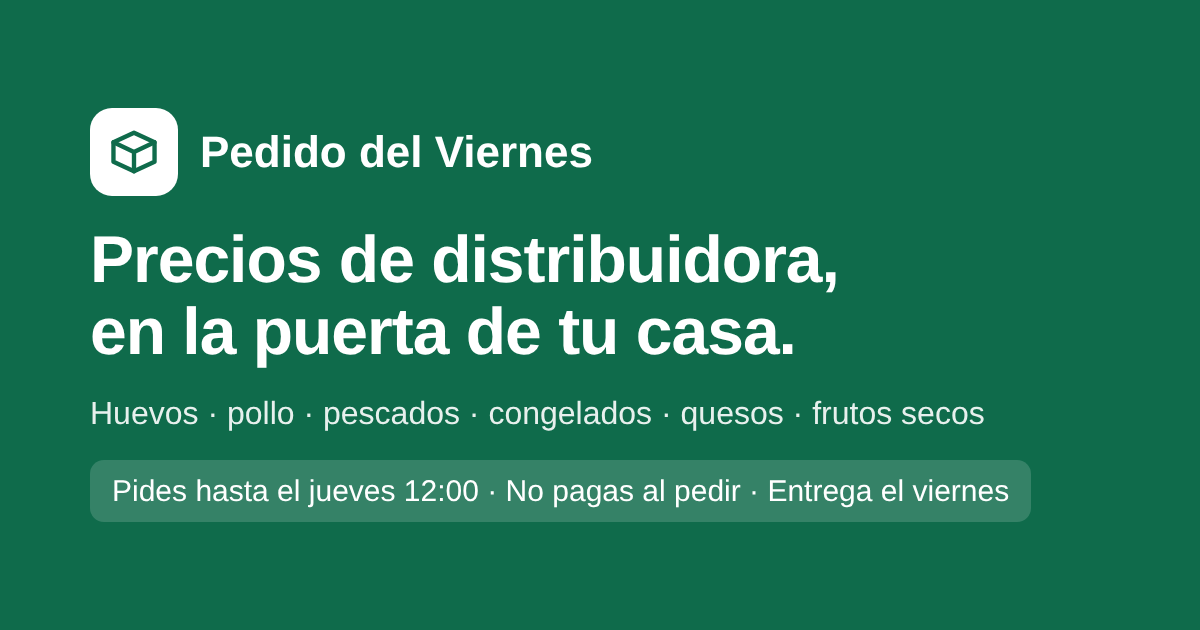
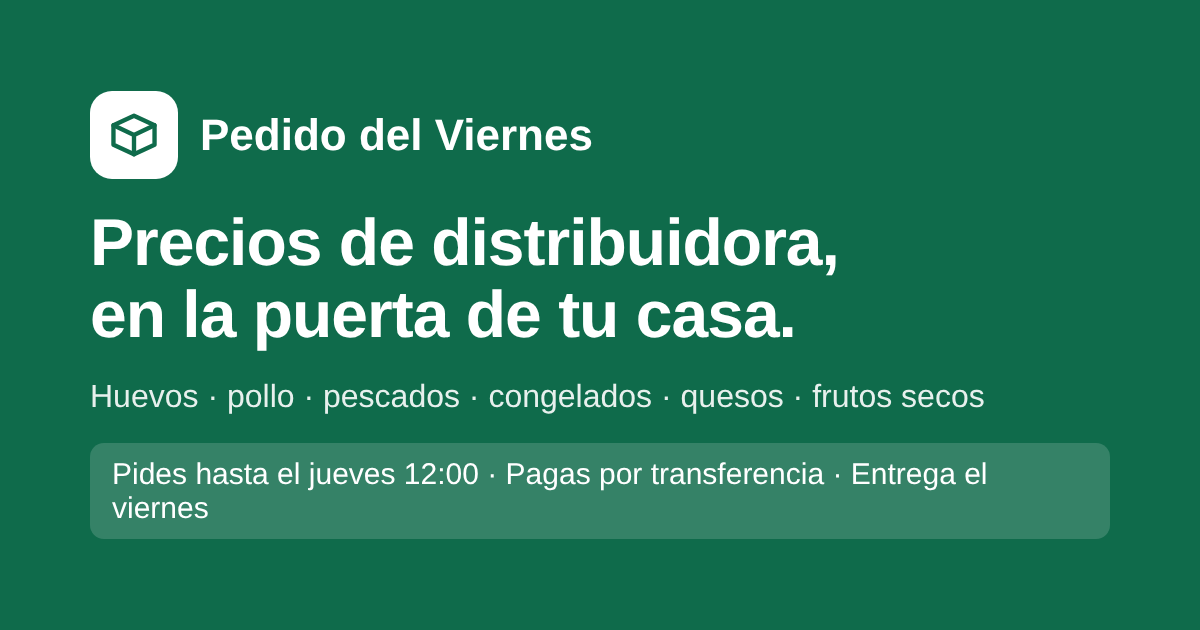
Pago al pedir por transferencia, precio fijo al pedir, historial de precios y retención de saltos con ocultamiento
Claude-Session: https://claude.ai/code/session_01HASEjHc6ugPZ1oLaSqET8v

Changed region(s): [[0.0617, 0.6032, 0.925, 0.8746], [0.0617, 0.1206, 0.7092, 0.573]]

diff --git a/index.html b/index.html
@@ -3,11 +3,11 @@
 <meta name="viewport" content="width=device-width,initial-scale=1,viewport-fit=cover">
 <meta name="robots" content="noindex">
 <title>Pedido del Viernes</title>
-<meta name="description" content="Precios de distribuidora con entrega a domicilio cada viernes. Pides hasta el jueves a las 12:00 y no pagas al pedir.">
+<meta name="description" content="Precios de distribuidora con entrega a domicilio cada viernes. Pides hasta el jueves a las 12:00 y pagas por transferencia.">
 <meta property="og:type" content="website">
 <meta property="og:url" content="https://erosseta-cmyk.github.io/pedido-del-viernes/">
 <meta property="og:title" content="Pedido del Viernes · Precios de distribuidora en tu casa">
-<meta property="og:description" content="Huevos, pollo, pescados, congelados, quesos y frutos secos. Pides hasta el jueves 12:00, no pagas al pedir y te lo llevo el viernes.">
+<meta property="og:description" content="Huevos, pollo, pescados, congelados, quesos y frutos secos. Pides hasta el jueves 12:00, pagas por transferencia y te lo llevo el viernes.">
 <meta property="og:image" content="https://erosseta-cmyk.github.io/pedido-del-viernes/og.png">
 <meta property="og:image:width" content="1200"><meta property="og:image:height" content="630">
 <meta name="twitter:card" content="summary_large_image">
@@ -214,15 +214,15 @@ details.how ul{margin:6px 0 0;padding-left:18px;display:grid;gap:4px}
   </div>
   <section class="hero">
     <h1>Precios de distribuidora, en la puerta de tu casa.</h1>
-    <p>Cada viernes compro por mayor y te llevo tu pedido. Eliges aquí, me lo envías por WhatsApp y pagas recién cuando te confirmo el total.</p>
+    <p>Cada viernes compro por mayor y te llevo tu pedido. Eliges aquí, me lo envías por WhatsApp y pagas por transferencia.</p>
     <div class="trust">
-      <div><svg class="ic"><use href="#i-chk"/></svg><span><b>No pagas al pedir</b><span>Pagas cuando te confirmo, por transferencia o Mercado Pago.</span></span></div>
+      <div><svg class="ic"><use href="#i-chk"/></svg><span><b>Pagas por transferencia</b><span>Al enviar tu pedido, hasta el jueves a las 20:00.</span></span></div>
       <div><svg class="ic"><use href="#i-cal"/></svg><span><b id="tEntrega">Entrega el viernes</b><span id="tEntrega2"></span></span></div>
-      <div><svg class="ic"><use href="#i-shd"/></svg><span><b>Si algo llega malo, no lo pagas</b><span>Se descuenta y te devuelvo su valor. Sin trámites.</span></span></div>
+      <div><svg class="ic"><use href="#i-shd"/></svg><span><b>Si algo falta o llega malo, no lo pagas</b><span>Te devuelvo ese monto el mismo viernes. Sin trámites.</span></span></div>
     </div>
     <ol class="steps">
       <li><span><b>Elige y envía</b> tu pedido por WhatsApp, hasta el <span id="sCierre"></span>.</span></li>
-      <li><span><b>Te confirmo el total</b> y pagas antes del <span class="pHasta"></span>.</span></li>
+      <li><span><b>Transfiere el total</b> y mándame el comprobante, hasta el <span class="pHasta"></span>.</span></li>
       <li><span><b>El viernes te lo llevo</b> a tu casa.</span></li>
     </ol>
     <div class="rules" id="rules"></div>
@@ -264,8 +264,7 @@ details.how ul{margin:6px 0 0;padding-left:18px;display:grid;gap:4px}
     <div class="two"><input class="f" id="cNombre" placeholder="Nombre" aria-label="Nombre" autocomplete="name"><select class="f" id="cComuna" aria-label="Comuna de entrega"></select></div>
     <input class="f" id="cDir" placeholder="Dirección (calle, número, depto)" aria-label="Dirección de entrega" autocomplete="street-address">
     <fieldset class="pay"><legend>¿Cómo vas a pagar?</legend>
-      <label><input type="radio" name="pago" value="tr" id="pagoTr"> <span><b>Transferencia</b> — <span id="trTxt"></span></span></label>
-      <label><input type="radio" name="pago" value="mp" id="pagoMp"> <span><b>Mercado Pago</b> — débito, crédito o saldo. Te envío un link de pago por el total exacto y Mercado Pago te manda el comprobante.</span></label>
+      <label><input type="radio" name="pago" value="tr" id="pagoTr" checked> <span><b>Transferencia</b> — <span id="trTxt"></span></span></label>
     </fieldset>
     <div class="bank" id="bank" hidden></div>
     <details class="how"><summary>Condiciones del pedido</summary><ul id="how"></ul></details>
@@ -322,18 +321,18 @@ $("rules").innerHTML=`<span>Pedido mínimo <b>${clp(MINIMO)}</b></span><span>Des
 const ph="+56 9 "+PHONE.slice(3,7)+" "+PHONE.slice(7);$("phone").textContent=ph;$("fPhone").textContent=ph;
 $("sidenote").textContent="Los precios incluyen IVA y se actualizan cada mañana según los precios de las distribuidoras."+(CMP_AL?` Comparación con supermercado según precios publicados en Lider el ${CMP_AL}.`:"");
 $("cmpNote").textContent=CMP_AL?`La comparación con supermercado usa el precio más bajo publicado en Lider (lider.cl) para un producto equivalente el ${CMP_AL}; puede cambiar.`:"";
-$("stamp").textContent=`Precios con IVA, vigentes al ${PRECIOS_AL}. Se revisan automáticamente cada mañana; si un precio cambia entre tu pedido y la compra, te aviso antes de cobrar.`;
-$("how").innerHTML=[`Pedidos hasta el ${CIERRE}; entrega el ${fdate} ${HORARIO}.`,`Pedido mínimo ${clp(MINIMO)} en productos.`,`Despacho según la distancia a tu comuna: desde ${clp(DESP_MIN)}; sobre ${DESP_MAX_KM} km se coordina.`,`No pagas al enviar el pedido: primero te confirmo el total y la disponibilidad. Después pagas hasta el ${PAGO_HASTA}; los pedidos sin pagar a esa hora no entran a la compra del viernes.`,`Si un producto llega en mal estado, avísame ese mismo día con una foto: se descuenta y te devuelvo su valor.`,`Congelados: guárdalos en el freezer apenas los recibas.`].map(t=>`<li>${esc(t)}</li>`).join("");
+$("stamp").textContent=`Precios con IVA, vigentes al ${PRECIOS_AL}. Se revisan automáticamente cada mañana; el precio que ves al pedir es el que pagas.`;
+$("how").innerHTML=[`Pedidos hasta el ${CIERRE}; entrega el ${fdate} ${HORARIO}.`,`Pedido mínimo ${clp(MINIMO)} en productos.`,`Despacho según la distancia a tu comuna: desde ${clp(DESP_MIN)}; sobre ${DESP_MAX_KM} km se coordina.`,`Pagas por transferencia al enviar tu pedido, hasta el ${PAGO_HASTA}. Los pedidos sin pagar a esa hora no entran a la compra del viernes.`,`El precio que ves al pedir es el que pagas, aunque cambie antes de la compra.`,`Si un producto falta el viernes, te devuelvo ese monto el mismo día.`,`Si un producto llega en mal estado, avísame ese mismo día con una foto: te devuelvo su valor.`,`Congelados: guárdalos en el freezer apenas los recibas.`].map(t=>`<li>${esc(t)}</li>`).join("");
 
 // comunas, pago, código
 $("cComuna").innerHTML=`<option value="">Comuna</option>`+Object.keys(KM).sort((a,b)=>a.localeCompare(b,"es")).map(c=>`<option>${c}</option>`).join("")+`<option value="otra">Otra comuna</option>`;
 const who=ls.get("pdv-who",{});$("cNombre").value=who.n||"";$("cComuna").value=who.c||"";$("cDir").value=who.a||"";
-if(who.p==="mp")$("pagoMp").checked=true;else if(who.p==="tr")$("pagoTr").checked=true;
+$("pagoTr").checked=true;
 const hasBank=!!(BANCO.cuenta&&BANCO.rut);
-$("trTxt").textContent=hasBank?`a mi cuenta del ${BANCO.banco}. Transfieres el total confirmado y me envías el comprobante.`:"te envío los datos al confirmar tu pedido. Transfieres el total y me mandas el comprobante de tu banco.";
+$("trTxt").textContent=hasBank?`a mi cuenta del ${BANCO.banco}. Transfieres el total de tu pedido y me envías el comprobante.`:"te envío los datos al confirmar tu pedido. Transfieres el total y me mandas el comprobante de tu banco.";
 document.querySelectorAll(".pHasta").forEach(e=>e.textContent=PAGO_HASTA);
 const BANK_TXT=hasBank?`${BANCO.titular}\nRUT ${BANCO.rut}\n${BANCO.banco}\n${BANCO.tipo}\nN.º ${BANCO.cuenta}\n${BANCO.correo}`:"";
-function renderBank(){const b=$("bank");if(!hasBank||pago()!=="tr"){b.hidden=true;return}b.hidden=false;b.innerHTML=`<div class="rc-h">Datos para transferir</div><dl>${[["Titular",BANCO.titular],["RUT",BANCO.rut],["Banco",BANCO.banco],["Tipo",BANCO.tipo],["Cuenta",BANCO.cuenta],["Correo",BANCO.correo]].filter(x=>x[1]).map(([k,v])=>`<dt>${k}</dt><dd>${esc(v)}</dd>`).join("")}</dl><button class="ghost" id="copyBank" type="button">Copiar datos</button><p class="note">Transfiere solo cuando te confirme el total, antes del ${PAGO_HASTA}.</p>`;$("copyBank").onclick=()=>navigator.clipboard.writeText(BANK_TXT).then(()=>toast("Datos copiados"),()=>toast("No se pudo copiar"))}
+function renderBank(){const b=$("bank");if(!hasBank||pago()!=="tr"){b.hidden=true;return}b.hidden=false;b.innerHTML=`<div class="rc-h">Datos para transferir</div><dl>${[["Titular",BANCO.titular],["RUT",BANCO.rut],["Banco",BANCO.banco],["Tipo",BANCO.tipo],["Cuenta",BANCO.cuenta],["Correo",BANCO.correo]].filter(x=>x[1]).map(([k,v])=>`<dt>${k}</dt><dd>${esc(v)}</dd>`).join("")}</dl><button class="ghost" id="copyBank" type="button">Copiar datos</button><p class="note">Transfiere el total de tu pedido hasta el ${PAGO_HASTA} y pon tu código de pedido en el comentario.</p>`;$("copyBank").onclick=()=>navigator.clipboard.writeText(BANK_TXT).then(()=>toast("Datos copiados"),()=>toast("No se pudo copiar"))}
 let code=ls.get("pdv-code","");function newCode(){const d=new Date();code="PV-"+String(d.getMonth()+1).padStart(2,"0")+String(d.getDate()).padStart(2,"0")+"-"+Math.random().toString(36).slice(2,5).toUpperCase();ls.set("pdv-code",code)}
 if(!code)newCode();
 function feeOf(c){if(!c)return{fee:0,state:"none"};if(c==="otra")return{fee:0,state:"coord"};const km=KM[c];if(km==null||km>DESP_MAX_KM)return{fee:0,state:"coord",km};
@@ -393,7 +392,7 @@ function orderText(){const{t,fee,F}=totals();let s=`Hola Esteban! Quiero hacer e
   cats.forEach(c=>{s+=`\n*${c}*\n`;ids.filter(id=>BY[id].cat===c).forEach(id=>{const p=BY[id];s+=`• ${cart[id]} × ${p.n} · ${p.u} — ${clp(cart[id]*p.pv)} [${id}]\n`})});
   s+=`\nProductos: ${clp(t)}\nDespacho: ${F.state==="ok"?clp(fee)+` (~${F.km} km)`:"a coordinar"}\n*Total: ${clp(t+fee)}${F.state==="ok"?"":" + despacho"}*\n`;
   const cm=$("cComuna").value;
-  s+=`\nCódigo de pedido: ${code}\nPago: ${pago()==="mp"?"Mercado Pago (envíame el link)":"Transferencia"}\nNombre: ${$("cNombre").value.trim()}\nComuna: ${cm==="otra"?"Otra (a coordinar)":cm}\nDirección: ${$("cDir").value.trim()}\n`;return s}
+  s+=`\nCódigo de pedido: ${code}\nPago: Transferencia\nNombre: ${$("cNombre").value.trim()}\nComuna: ${cm==="otra"?"Otra (a coordinar)":cm}\nDirección: ${$("cDir").value.trim()}\n`;return s}
 function renderCart(){const ids=Object.keys(cart);renderBank();
   $("lines").innerHTML=ids.length?[...new Set(ids.map(id=>BY[id].cat))].map(c=>`<div class="grp">${esc(c)}</div>`+ids.filter(id=>BY[id].cat===c).map(id=>{const p=BY[id];return `<div class="row" data-row="${id}"><div class="info"><div class="nm">${esc(p.n)}</div><div class="u">${esc(p.u)} · ${clp(p.pv)} c/u</div></div><div class="right"><div class="pr">${clp(cart[id]*p.pv)}</div><div class="ctl">${ctl(id)}</div></div></div>`}).join("")).join("")
     :`<p class="empty">Aún no agregas productos.</p>`;
@@ -402,7 +401,7 @@ function renderCart(){const ids=Object.keys(cart);renderBank();
   const mw=$("minwarn");
   if(n&&!ok){mw.hidden=false;mw.innerHTML=`Te faltan <b>${clp(MINIMO-t)}</b> para el pedido mínimo de ${clp(MINIMO)}.<div class="meter"><i style="width:${Math.min(100,t/MINIMO*100)}%"></i></div>`}
   else if(n&&falta.length){mw.hidden=false;mw.textContent="Para enviar falta: "+falta.join(", ")+"."}
-  else if(n&&F.state==="coord"){mw.hidden=false;mw.textContent="Tu comuna está a más de "+DESP_MAX_KM+" km: el despacho lo coordinamos por WhatsApp antes de pagar."}
+  else if(n&&F.state==="coord"){mw.hidden=false;mw.textContent="Tu comuna está a más de "+DESP_MAX_KM+" km: el despacho lo coordinamos por WhatsApp. Transfiere los productos y el despacho lo pagas aparte."}
   else mw.hidden=true;
   const can=n&&ok&&!falta.length;
   const fld=!$("cNombre").value.trim()?"cNombre":!$("cComuna").value?"cComuna":!$("cDir").value.trim()?"cDir":!pago()?"pagoTr":"";
@@ -417,8 +416,8 @@ function showReceipt(){const{t,fee,F}=totals();const p=pago();
   <div class="rc-row"><span>Total</span><b>${clp(t+fee)}${F.state==="ok"?"":" + despacho"}</b></div>
   <div class="rc-row"><span>Entrega</span><b>${esc(fdate)}</b></div>
   <ol class="rc-steps"><li>Envía el mensaje en WhatsApp (si no se abrió, usa "Copiar").</li>
-  <li>Te confirmo el total y la disponibilidad. Todavía no pagas nada.</li>
-  <li>${p==="mp"?"Te llega un link de Mercado Pago por el total; al pagar, Mercado Pago te envía el comprobante.":"Transfieres el total confirmado"+(hasBank?` a ${esc(BANCO.banco)}, ${esc(BANCO.tipo)} ${esc(BANCO.cuenta)}, RUT ${esc(BANCO.rut)}`:"")+" y me mandas el comprobante."} Hazlo antes del <b>${PAGO_HASTA}</b> y pon el código <b>${code}</b> en el comentario.</li></ol>
+  <li>Transfiere <b>${clp(t+fee)}</b>${F.state==="ok"?"":" (solo productos; el despacho lo coordinamos)"}${hasBank?` a ${esc(BANCO.titular)}, ${esc(BANCO.banco)}, ${esc(BANCO.tipo)} ${esc(BANCO.cuenta)}, RUT ${esc(BANCO.rut)}`:""}, hasta el <b>${PAGO_HASTA}</b>. Pon el código <b>${code}</b> en el comentario.</li>
+  <li>Mándame el comprobante por WhatsApp. Si el viernes falta algo, te devuelvo ese monto.</li></ol>
   <p class="note">Guarda esta pantalla con una captura.</p>
   <button class="ghost" id="newOrder" style="width:100%">Hacer otro pedido</button>`;
   $("receipt").scrollIntoView({block:"nearest"});

diff --git a/build/template.html b/build/template.html
@@ -1,9 +1,9 @@
 <title>Pedido del Viernes</title>
-<meta name="description" content="Precios de distribuidora con entrega a domicilio cada viernes. Pides hasta el jueves a las 12:00 y no pagas al pedir.">
+<meta name="description" content="Precios de distribuidora con entrega a domicilio cada viernes. Pides hasta el jueves a las 12:00 y pagas por transferencia.">
 <meta property="og:type" content="website">
 <meta property="og:url" content="https://erosseta-cmyk.github.io/pedido-del-viernes/">
 <meta property="og:title" content="Pedido del Viernes · Precios de distribuidora en tu casa">
-<meta property="og:description" content="Huevos, pollo, pescados, congelados, quesos y frutos secos. Pides hasta el jueves 12:00, no pagas al pedir y te lo llevo el viernes.">
+<meta property="og:description" content="Huevos, pollo, pescados, congelados, quesos y frutos secos. Pides hasta el jueves 12:00, pagas por transferencia y te lo llevo el viernes.">
 <meta property="og:image" content="https://erosseta-cmyk.github.io/pedido-del-viernes/og.png">
 <meta property="og:image:width" content="1200"><meta property="og:image:height" content="630">
 <meta name="twitter:card" content="summary_large_image">
@@ -208,15 +208,15 @@ details.how ul{margin:6px 0 0;padding-left:18px;display:grid;gap:4px}
   </div>
   <section class="hero">
     <h1>Precios de distribuidora, en la puerta de tu casa.</h1>
-    <p>Cada viernes compro por mayor y te llevo tu pedido. Eliges aquí, me lo envías por WhatsApp y pagas recién cuando te confirmo el total.</p>
+    <p>Cada viernes compro por mayor y te llevo tu pedido. Eliges aquí, me lo envías por WhatsApp y pagas por transferencia.</p>
     <div class="trust">
-      <div><svg class="ic"><use href="#i-chk"/></svg><span><b>No pagas al pedir</b><span>Pagas cuando te confirmo, por transferencia o Mercado Pago.</span></span></div>
+      <div><svg class="ic"><use href="#i-chk"/></svg><span><b>Pagas por transferencia</b><span>Al enviar tu pedido, hasta el jueves a las 20:00.</span></span></div>
       <div><svg class="ic"><use href="#i-cal"/></svg><span><b id="tEntrega">Entrega el viernes</b><span id="tEntrega2"></span></span></div>
-      <div><svg class="ic"><use href="#i-shd"/></svg><span><b>Si algo llega malo, no lo pagas</b><span>Se descuenta y te devuelvo su valor. Sin trámites.</span></span></div>
+      <div><svg class="ic"><use href="#i-shd"/></svg><span><b>Si algo falta o llega malo, no lo pagas</b><span>Te devuelvo ese monto el mismo viernes. Sin trámites.</span></span></div>
     </div>
     <ol class="steps">
       <li><span><b>Elige y envía</b> tu pedido por WhatsApp, hasta el <span id="sCierre"></span>.</span></li>
-      <li><span><b>Te confirmo el total</b> y pagas antes del <span class="pHasta"></span>.</span></li>
+      <li><span><b>Transfiere el total</b> y mándame el comprobante, hasta el <span class="pHasta"></span>.</span></li>
       <li><span><b>El viernes te lo llevo</b> a tu casa.</span></li>
     </ol>
     <div class="rules" id="rules"></div>
@@ -258,8 +258,7 @@ details.how ul{margin:6px 0 0;padding-left:18px;display:grid;gap:4px}
     <div class="two"><input class="f" id="cNombre" placeholder="Nombre" aria-label="Nombre" autocomplete="name"><select class="f" id="cComuna" aria-label="Comuna de entrega"></select></div>
     <input class="f" id="cDir" placeholder="Dirección (calle, número, depto)" aria-label="Dirección de entrega" autocomplete="street-address">
     <fieldset class="pay"><legend>¿Cómo vas a pagar?</legend>
-      <label><input type="radio" name="pago" value="tr" id="pagoTr"> <span><b>Transferencia</b> — <span id="trTxt"></span></span></label>
-      <label><input type="radio" name="pago" value="mp" id="pagoMp"> <span><b>Mercado Pago</b> — débito, crédito o saldo. Te envío un link de pago por el total exacto y Mercado Pago te manda el comprobante.</span></label>
+      <label><input type="radio" name="pago" value="tr" id="pagoTr" checked> <span><b>Transferencia</b> — <span id="trTxt"></span></span></label>
     </fieldset>
     <div class="bank" id="bank" hidden></div>
     <details class="how"><summary>Condiciones del pedido</summary><ul id="how"></ul></details>
@@ -316,18 +315,18 @@ $("rules").innerHTML=`<span>Pedido mínimo <b>${clp(MINIMO)}</b></span><span>Des
 const ph="+56 9 "+PHONE.slice(3,7)+" "+PHONE.slice(7);$("phone").textContent=ph;$("fPhone").textContent=ph;
 $("sidenote").textContent="Los precios incluyen IVA y se actualizan cada mañana según los precios de las distribuidoras."+(CMP_AL?` Comparación con supermercado según precios publicados en Lider el ${CMP_AL}.`:"");
 $("cmpNote").textContent=CMP_AL?`La comparación con supermercado usa el precio más bajo publicado en Lider (lider.cl) para un producto equivalente el ${CMP_AL}; puede cambiar.`:"";
-$("stamp").textContent=`Precios con IVA, vigentes al ${PRECIOS_AL}. Se revisan automáticamente cada mañana; si un precio cambia entre tu pedido y la compra, te aviso antes de cobrar.`;
-$("how").innerHTML=[`Pedidos hasta el ${CIERRE}; entrega el ${fdate} ${HORARIO}.`,`Pedido mínimo ${clp(MINIMO)} en productos.`,`Despacho según la distancia a tu comuna: desde ${clp(DESP_MIN)}; sobre ${DESP_MAX_KM} km se coordina.`,`No pagas al enviar el pedido: primero te confirmo el total y la disponibilidad. Después pagas hasta el ${PAGO_HASTA}; los pedidos sin pagar a esa hora no entran a la compra del viernes.`,`Si un producto llega en mal estado, avísame ese mismo día con una foto: se descuenta y te devuelvo su valor.`,`Congelados: guárdalos en el freezer apenas los recibas.`].map(t=>`<li>${esc(t)}</li>`).join("");
+$("stamp").textContent=`Precios con IVA, vigentes al ${PRECIOS_AL}. Se revisan automáticamente cada mañana; el precio que ves al pedir es el que pagas.`;
+$("how").innerHTML=[`Pedidos hasta el ${CIERRE}; entrega el ${fdate} ${HORARIO}.`,`Pedido mínimo ${clp(MINIMO)} en productos.`,`Despacho según la distancia a tu comuna: desde ${clp(DESP_MIN)}; sobre ${DESP_MAX_KM} km se coordina.`,`Pagas por transferencia al enviar tu pedido, hasta el ${PAGO_HASTA}. Los pedidos sin pagar a esa hora no entran a la compra del viernes.`,`El precio que ves al pedir es el que pagas, aunque cambie antes de la compra.`,`Si un producto falta el viernes, te devuelvo ese monto el mismo día.`,`Si un producto llega en mal estado, avísame ese mismo día con una foto: te devuelvo su valor.`,`Congelados: guárdalos en el freezer apenas los recibas.`].map(t=>`<li>${esc(t)}</li>`).join("");
 
 // comunas, pago, código
 $("cComuna").innerHTML=`<option value="">Comuna</option>`+Object.keys(KM).sort((a,b)=>a.localeCompare(b,"es")).map(c=>`<option>${c}</option>`).join("")+`<option value="otra">Otra comuna</option>`;
 const who=ls.get("pdv-who",{});$("cNombre").value=who.n||"";$("cComuna").value=who.c||"";$("cDir").value=who.a||"";
-if(who.p==="mp")$("pagoMp").checked=true;else if(who.p==="tr")$("pagoTr").checked=true;
+$("pagoTr").checked=true;
 const hasBank=!!(BANCO.cuenta&&BANCO.rut);
-$("trTxt").textContent=hasBank?`a mi cuenta del ${BANCO.banco}. Transfieres el total confirmado y me envías el comprobante.`:"te envío los datos al confirmar tu pedido. Transfieres el total y me mandas el comprobante de tu banco.";
+$("trTxt").textContent=hasBank?`a mi cuenta del ${BANCO.banco}. Transfieres el total de tu pedido y me envías el comprobante.`:"te envío los datos al confirmar tu pedido. Transfieres el total y me mandas el comprobante de tu banco.";
 document.querySelectorAll(".pHasta").forEach(e=>e.textContent=PAGO_HASTA);
 const BANK_TXT=hasBank?`${BANCO.titular}\nRUT ${BANCO.rut}\n${BANCO.banco}\n${BANCO.tipo}\nN.º ${BANCO.cuenta}\n${BANCO.correo}`:"";
-function renderBank(){const b=$("bank");if(!hasBank||pago()!=="tr"){b.hidden=true;return}b.hidden=false;b.innerHTML=`<div class="rc-h">Datos para transferir</div><dl>${[["Titular",BANCO.titular],["RUT",BANCO.rut],["Banco",BANCO.banco],["Tipo",BANCO.tipo],["Cuenta",BANCO.cuenta],["Correo",BANCO.correo]].filter(x=>x[1]).map(([k,v])=>`<dt>${k}</dt><dd>${esc(v)}</dd>`).join("")}</dl><button class="ghost" id="copyBank" type="button">Copiar datos</button><p class="note">Transfiere solo cuando te confirme el total, antes del ${PAGO_HASTA}.</p>`;$("copyBank").onclick=()=>navigator.clipboard.writeText(BANK_TXT).then(()=>toast("Datos copiados"),()=>toast("No se pudo copiar"))}
+function renderBank(){const b=$("bank");if(!hasBank||pago()!=="tr"){b.hidden=true;return}b.hidden=false;b.innerHTML=`<div class="rc-h">Datos para transferir</div><dl>${[["Titular",BANCO.titular],["RUT",BANCO.rut],["Banco",BANCO.banco],["Tipo",BANCO.tipo],["Cuenta",BANCO.cuenta],["Correo",BANCO.correo]].filter(x=>x[1]).map(([k,v])=>`<dt>${k}</dt><dd>${esc(v)}</dd>`).join("")}</dl><button class="ghost" id="copyBank" type="button">Copiar datos</button><p class="note">Transfiere el total de tu pedido hasta el ${PAGO_HASTA} y pon tu código de pedido en el comentario.</p>`;$("copyBank").onclick=()=>navigator.clipboard.writeText(BANK_TXT).then(()=>toast("Datos copiados"),()=>toast("No se pudo copiar"))}
 let code=ls.get("pdv-code","");function newCode(){const d=new Date();code="PV-"+String(d.getMonth()+1).padStart(2,"0")+String(d.getDate()).padStart(2,"0")+"-"+Math.random().toString(36).slice(2,5).toUpperCase();ls.set("pdv-code",code)}
 if(!code)newCode();
 function feeOf(c){if(!c)return{fee:0,state:"none"};if(c==="otra")return{fee:0,state:"coord"};const km=KM[c];if(km==null||km>DESP_MAX_KM)return{fee:0,state:"coord",km};
@@ -387,7 +386,7 @@ function orderText(){const{t,fee,F}=totals();let s=`Hola Esteban! Quiero hacer e
   cats.forEach(c=>{s+=`\n*${c}*\n`;ids.filter(id=>BY[id].cat===c).forEach(id=>{const p=BY[id];s+=`• ${cart[id]} × ${p.n} · ${p.u} — ${clp(cart[id]*p.pv)} [${id}]\n`})});
   s+=`\nProductos: ${clp(t)}\nDespacho: ${F.state==="ok"?clp(fee)+` (~${F.km} km)`:"a coordinar"}\n*Total: ${clp(t+fee)}${F.state==="ok"?"":" + despacho"}*\n`;
   const cm=$("cComuna").value;
-  s+=`\nCódigo de pedido: ${code}\nPago: ${pago()==="mp"?"Mercado Pago (envíame el link)":"Transferencia"}\nNombre: ${$("cNombre").value.trim()}\nComuna: ${cm==="otra"?"Otra (a coordinar)":cm}\nDirección: ${$("cDir").value.trim()}\n`;return s}
+  s+=`\nCódigo de pedido: ${code}\nPago: Transferencia\nNombre: ${$("cNombre").value.trim()}\nComuna: ${cm==="otra"?"Otra (a coordinar)":cm}\nDirección: ${$("cDir").value.trim()}\n`;return s}
 function renderCart(){const ids=Object.keys(cart);renderBank();
   $("lines").innerHTML=ids.length?[...new Set(ids.map(id=>BY[id].cat))].map(c=>`<div class="grp">${esc(c)}</div>`+ids.filter(id=>BY[id].cat===c).map(id=>{const p=BY[id];return `<div class="row" data-row="${id}"><div class="info"><div class="nm">${esc(p.n)}</div><div class="u">${esc(p.u)} · ${clp(p.pv)} c/u</div></div><div class="right"><div class="pr">${clp(cart[id]*p.pv)}</div><div class="ctl">${ctl(id)}</div></div></div>`}).join("")).join("")
     :`<p class="empty">Aún no agregas productos.</p>`;
@@ -396,7 +395,7 @@ function renderCart(){const ids=Object.keys(cart);renderBank();
   const mw=$("minwarn");
   if(n&&!ok){mw.hidden=false;mw.innerHTML=`Te faltan <b>${clp(MINIMO-t)}</b> para el pedido mínimo de ${clp(MINIMO)}.<div class="meter"><i style="width:${Math.min(100,t/MINIMO*100)}%"></i></div>`}
   else if(n&&falta.length){mw.hidden=false;mw.textContent="Para enviar falta: "+falta.join(", ")+"."}
-  else if(n&&F.state==="coord"){mw.hidden=false;mw.textContent="Tu comuna está a más de "+DESP_MAX_KM+" km: el despacho lo coordinamos por WhatsApp antes de pagar."}
+  else if(n&&F.state==="coord"){mw.hidden=false;mw.textContent="Tu comuna está a más de "+DESP_MAX_KM+" km: el despacho lo coordinamos por WhatsApp. Transfiere los productos y el despacho lo pagas aparte."}
   else mw.hidden=true;
   const can=n&&ok&&!falta.length;
   const fld=!$("cNombre").value.trim()?"cNombre":!$("cComuna").value?"cComuna":!$("cDir").value.trim()?"cDir":!pago()?"pagoTr":"";
@@ -411,8 +410,8 @@ function showReceipt(){const{t,fee,F}=totals();const p=pago();
   <div class="rc-row"><span>Total</span><b>${clp(t+fee)}${F.state==="ok"?"":" + despacho"}</b></div>
   <div class="rc-row"><span>Entrega</span><b>${esc(fdate)}</b></div>
   <ol class="rc-steps"><li>Envía el mensaje en WhatsApp (si no se abrió, usa "Copiar").</li>
-  <li>Te confirmo el total y la disponibilidad. Todavía no pagas nada.</li>
-  <li>${p==="mp"?"Te llega un link de Mercado Pago por el total; al pagar, Mercado Pago te envía el comprobante.":"Transfieres el total confirmado"+(hasBank?` a ${esc(BANCO.banco)}, ${esc(BANCO.tipo)} ${esc(BANCO.cuenta)}, RUT ${esc(BANCO.rut)}`:"")+" y me mandas el comprobante."} Hazlo antes del <b>${PAGO_HASTA}</b> y pon el código <b>${code}</b> en el comentario.</li></ol>
+  <li>Transfiere <b>${clp(t+fee)}</b>${F.state==="ok"?"":" (solo productos; el despacho lo coordinamos)"}${hasBank?` a ${esc(BANCO.titular)}, ${esc(BANCO.banco)}, ${esc(BANCO.tipo)} ${esc(BANCO.cuenta)}, RUT ${esc(BANCO.rut)}`:""}, hasta el <b>${PAGO_HASTA}</b>. Pon el código <b>${code}</b> en el comentario.</li>
+  <li>Mándame el comprobante por WhatsApp. Si el viernes falta algo, te devuelvo ese monto.</li></ol>
   <p class="note">Guarda esta pantalla con una captura.</p>
   <button class="ghost" id="newOrder" style="width:100%">Hacer otro pedido</button>`;
   $("receipt").scrollIntoView({block:"nearest"});

diff --git a/build/update.py b/build/update.py
@@ -4,6 +4,7 @@ Lee los precios actuales de las tres distribuidoras, mueve cada precio de venta 
 mismo porcentaje que cambió su precio de compra y vuelve a generar index.html.
 
 Frenos de seguridad:
+  - Un salto de más de 25 % oculta el producto; si el mismo precio se repite 3 días seguidos se aplica.
   - Si una distribuidora no responde o se reconocen menos del 85 % de sus productos,
     sus precios quedan como estaban.
   - Si un precio de compra cambia más de un 25 % de una semana a otra, no se toca y
@@ -26,7 +27,7 @@ BASE_ENC = os.path.join(B, 'base.enc')
 ALIAS = os.path.join(B, 'artico_alias.json')
 UA = {'User-Agent': 'Mozilla/5.0 (X11; Linux x86_64) AppleWebKit/537.36 (KHTML, like Gecko) Chrome/124 Safari/537.36',
       'Accept-Language': 'es-CL,es;q=0.9'}
-MIN_FOUND, MAX_JUMP, CMP_DAYS = 0.85, 0.25, 28
+MIN_FOUND, MAX_JUMP, CMP_DAYS, HOLD_DAYS = 0.85, 0.25, 28, 3
 NAMES = {'A': 'Ártico Congelados', 'R': 'Río Maipo', 'P': 'El Palomo'}
 
 
@@ -214,7 +215,7 @@ def update(dump=False):
         m1 = metric(it, f)
         if not m1:
             continue
-        if not it['on']:
+        if not it['on'] and not it.get('hold'):
             it['on'] = True
             back.append(it)
         m0 = base.get(it['id'])
@@ -222,16 +223,38 @@ def update(dump=False):
             base[it['id']] = m1
             continue
         r = m1 / m0
+        if abs(r - 1) <= MAX_JUMP and it.pop('hold', None):
+            it['on'] = True               # el salto era un error de lectura: vuelve a mostrarse
         if abs(r - 1) < 0.01:
             continue
         if abs(r - 1) > MAX_JUMP:
-            held.append((it, m0, m1))
-            continue
+            h = it.get('hold')
+            n = h['n'] + 1 if h and abs(h['m'] / m1 - 1) < 0.01 else 1
+            if n < HOLD_DAYS:
+                it['hold'] = {'m': m1, 'n': n}
+                it['on'] = False          # oculto mientras no se confirme: evita vender bajo costo
+                held.append((it, m0, m1))
+                continue
+            it.pop('hold', None)          # mismo precio 3 días seguidos: es real, se aplica
+            it['on'] = True
         old = it['pv']
         it['pv'] = round90(old * r)
         base[it['id']] = m1
         if it['pv'] != old:
             changes.append((it, old, it['pv'], r))
+    # historial de cambios de precio (para ver qué días suben); solo porcentajes y precios de venta
+    hist = os.path.join(B, 'historial.csv')
+    new = not os.path.exists(hist)
+    with open(hist, 'a', encoding='utf-8') as fh:
+        if new:
+            fh.write('fecha,dia,distribuidora,producto,unidad,cambio_proveedor_pct,precio_venta_antes,precio_venta_ahora,estado\n')
+        hoy = datetime.date.today()
+        dia = ['lunes', 'martes', 'miércoles', 'jueves', 'viernes', 'sábado', 'domingo'][hoy.weekday()]
+        q = lambda s: '"' + str(s).replace('"', "'") + '"'
+        for it, a0, b0, r in changes:
+            fh.write(f"{hoy},{dia},{NAMES[it['s']]},{q(it['n'])},{q(it['u'])},{(r - 1) * 100:+.1f},{a0},{b0},aplicado\n")
+        for it, m0, m1 in held:
+            fh.write(f"{hoy},{dia},{NAMES[it['s']]},{q(it['n'])},{q(it['u'])},{(m1 / m0 - 1) * 100:+.1f},{it['pv']},{it['pv']},retenido\n")
     cat['updated'] = datetime.date.today().isoformat()
     json.dump(cat, open(CAT, 'w', encoding='utf-8'), ensure_ascii=False, indent=0)
     save_base(base)
@@ -242,7 +265,7 @@ def update(dump=False):
     if fail:
         L += ['## ⚠ Distribuidoras que no se pudieron leer (sus precios quedaron igual)', ''] + [f'- {NAMES[s]}: {why}' for s, why in fail.items()] + ['']
     if held:
-        L += ['## ⚠ Cambios de más de 25 % que NO se aplicaron (revisa en la página del proveedor)', '',
+        L += ['## ⚠ Saltos de más de 25 % (producto oculto; si se repite 3 días seguidos se aplica solo)', '',
               '| Producto | Proveedor | Tu precio actual | Cambio proveedor |', '|---|---|---|---|']
         L += [f"| {it['n']} ({it['u']}) | {NAMES[it['s']]} | {clp(it['pv'])} | {(b / a - 1) * 100:+.0f} % |" for it, a, b in held] + ['']
     if changes:
